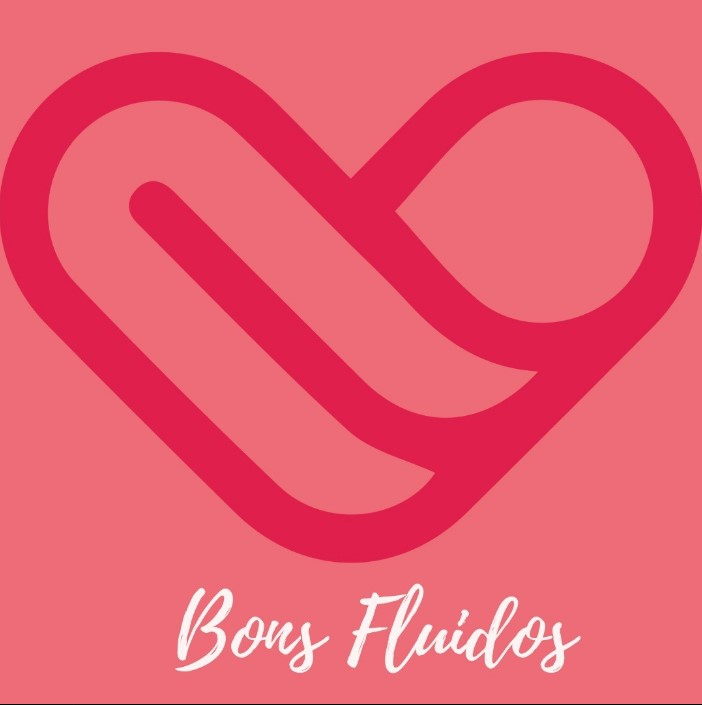
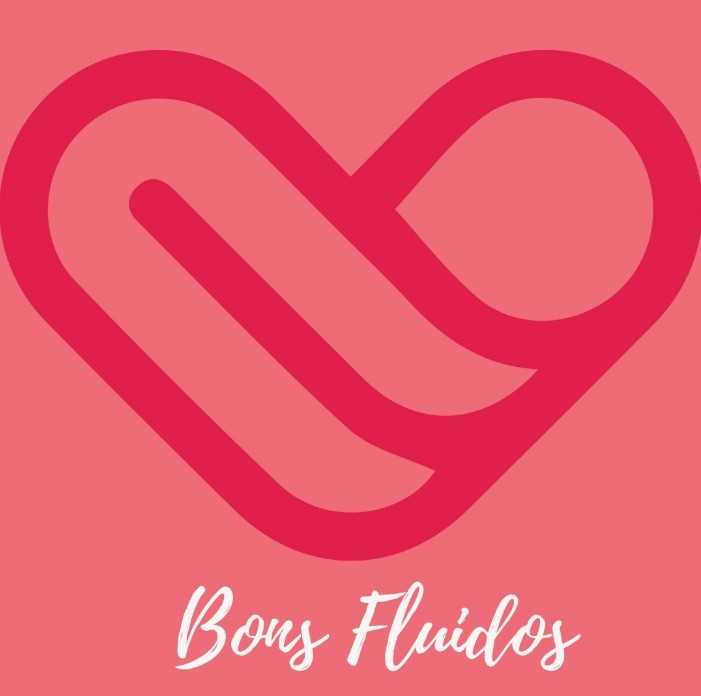
Cadastro
Página de cadastro

diff --git a/certifiadora/src/pages/cadastro.jsx b/certifiadora/src/pages/cadastro.jsx
@@ -1,0 +1,59 @@
+import React from 'react';
+import CoracaoLogo from '../assets/coracao.jpg';
+
+function Cadastro() {
+  return (
+    <div className="h-screen flex font-sans bg-[#F4A0A8]">
+      
+      <div className="w-3/5 bg-[#EF6C78] flex items-center justify-center p-10">
+        <img src={CoracaoLogo} alt="Logo da Bons Fluidos" className="w-auto h-auto max-w-lg" />
+      </div>
+
+      <div className="w-2/5 flex items-center justify-center p-10">
+        <div className="w-full max-w-sm">
+          <h2 className="text-2xl font-medium text-[#8B4D58] mb-8">Registre-se gratuitamente</h2>
+
+          <form id="registrationForm" className="space-y-5">
+            <div>
+              <label htmlFor="fullName" className="block text-sm mb-1 text-[#4F4F4F]">Nome completo</label>
+              <input type="text" id="fullName" name="fullName" required
+                className="w-full p-3 rounded-lg bg-[#F0F0F0] text-[#4F4F4F] focus:outline-none focus:ring-2 focus:ring-[#E84D6E]" />
+            </div>
+
+            <div>
+              <label htmlFor="cpf" className="block text-sm mb-1 text-[#4F4F4F]">CPF</label>
+              <input type="text" id="cpf" name="cpf" required
+                className="w-full p-3 rounded-lg bg-[#F0F0F0] text-[#4F4F4F] focus:outline-none focus:ring-2 focus:ring-[#E84D6E]" />
+            </div>
+
+            <div>
+              <label htmlFor="phone" className="block text-sm mb-1 text-[#4F4F4F]">Telefone</label>
+              <input type="tel" id="phone" name="phone" required
+                className="w-full p-3 rounded-lg bg-[#F0F0F0] text-[#4F4F4F] focus:outline-none focus:ring-2 focus:ring-[#E84D6E]" />
+            </div>
+
+            <div>
+              <label htmlFor="email" className="block text-sm mb-1 text-[#4F4F4F]">Email</label>
+              <input type="email" id="email" name="email" required
+                className="w-full p-3 rounded-lg bg-[#F0F0F0] text-[#4F4F4F] focus:outline-none focus:ring-2 focus:ring-[#E84D6E]" />
+            </div>
+
+            <div>
+              <label htmlFor="address" className="block text-sm mb-1 text-[#4F4F4F]">Endereço</label>
+              <input type="text" id="address" name="address" required
+                className="w-full p-3 rounded-lg bg-[#F0F0F0] text-[#4F4F4F] focus:outline-none focus:ring-2 focus:ring-[#E84D6E]" />
+            </div>
+
+            <button type="submit"
+              className="w-full py-3 rounded-lg bg-white text-[#4F4F4F] font-semibold shadow hover:bg-[#f2f2f2] transition-colors duration-300">
+              Criar conta
+            </button>
+          </form>
+        </div>
+      </div>
+
+    </div>
+  );
+}
+
+export default Cadastro;

diff --git a/certifiadora/src/pages/login.jsx b/certifiadora/src/pages/login.jsx
@@ -5,8 +5,8 @@ function Login() {
   return(
     <div className="h-screen flex font-sans bg-[#F4A0A8]">
 
-      <div className="w-3/5  flex items-center justify-center p-10 ">
-            <img src={CoracaoLogo} alt="Logo Coração Bons Fluidos" className="w-4/5" />
+      <div className="w-3/5 bg-[#EF6C78] flex items-center justify-center p-10 ">
+            <img src={CoracaoLogo} alt="Logo Coração Bons Fluidos" className="w-auto h-auto max-w-lg" />
         </div>
 
       <div className="w-2/5 flex items-center justify-center p-10">

diff --git a/certifiadora/src/App.jsx b/certifiadora/src/App.jsx
@@ -4,9 +4,10 @@ import Tabela from './Pages/tabela';
 import QuemSomos from './pages/QuemSomos';
 import ComoDoar from './pages/ComoDoar';
 import Login from './pages/login'
+import Cadastro from './pages/cadastro'
 function App() {
   return (
-   <Login />
+   <Cadastro />
   );
  }
 
